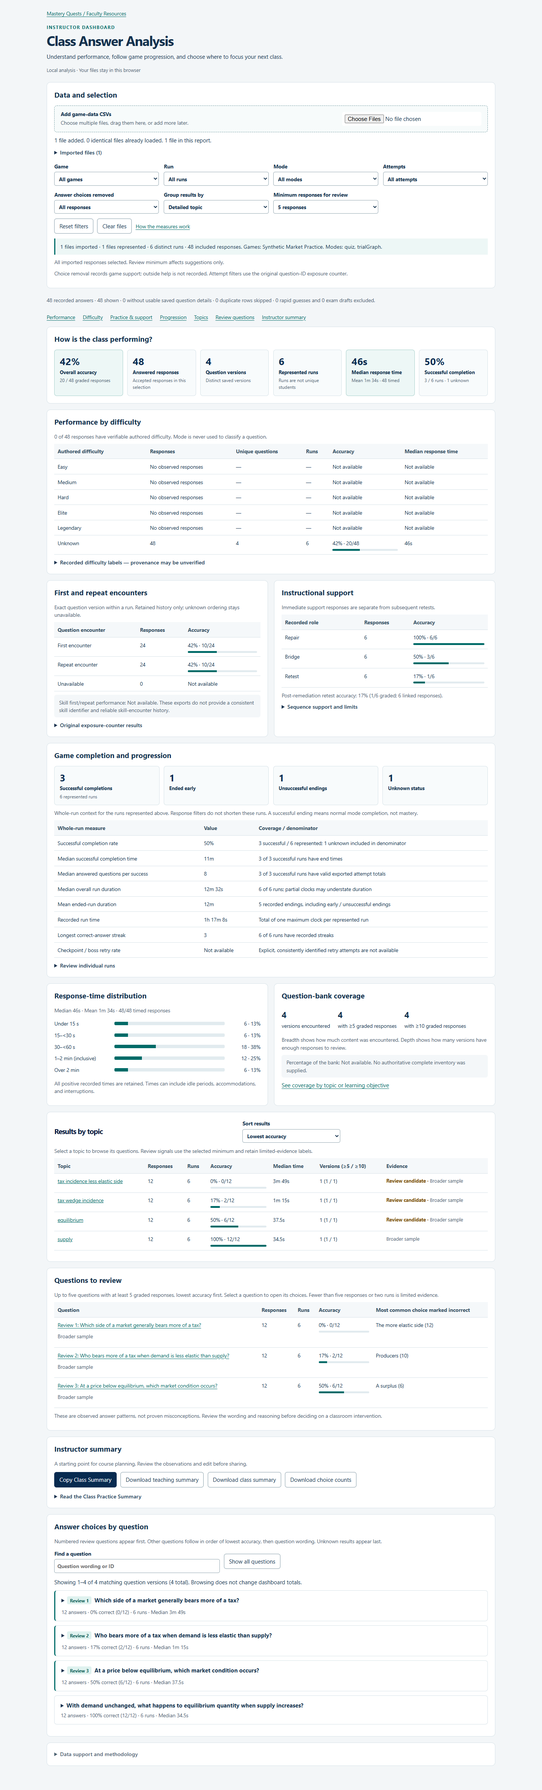
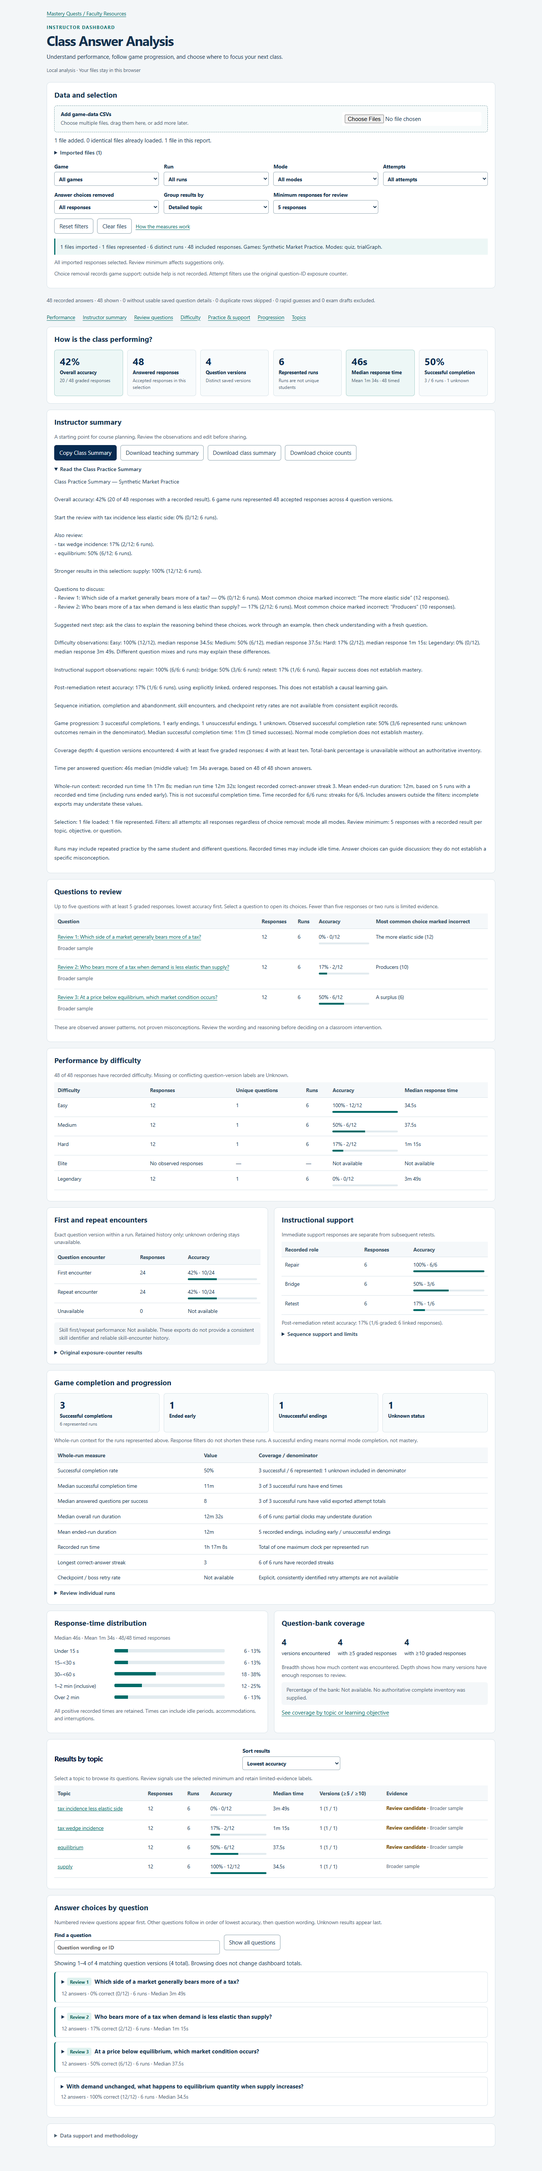
updated answer analysis

diff --git a/tools/answer-analysis/index.html b/tools/answer-analysis/index.html
@@ -20,30 +20,30 @@
 <p id="dataset-context" class="selection-context" role="status" aria-live="polite">Add files to begin. Files, runs, responses, and students are different units.</p><p id="active-filters" class="meta"></p><p id="choice-removal-help" class="meta">Choice removal records game support; outside help is not recorded. Attempt filters use the original question-ID exposure counter.</p>
 </section>
 <p id="status" role="status" aria-live="polite">Add files to see the results.</p><p id="errors" role="alert"></p><p id="integrity" class="integrity-note" role="alert"></p>
-<nav id="dashboard-nav" aria-label="Dashboard sections" hidden><a href="#overview">Performance</a><a href="#difficulty">Difficulty</a><a href="#learning">Practice &amp; support</a><a href="#progression">Progression</a><a href="#topics">Topics</a><a href="#review">Review questions</a><a href="#instructor-summary">Instructor summary</a></nav>
+<nav id="dashboard-nav" aria-label="Dashboard sections" hidden><a href="#overview">Performance</a><a href="#instructor-summary">Instructor summary</a><a href="#review">Review questions</a><a href="#difficulty">Difficulty</a><a href="#learning">Practice &amp; support</a><a href="#progression">Progression</a><a href="#topics">Topics</a></nav>
 <div id="empty-state" class="panel"><h2>A clearer view of your class</h2><p>Import question-response CSVs from Managerial Intelligence Directorate, Macro Command System, Micro Domains, Economic Realm, or Composer games.</p><p class="meta">Simulation trial tables and journey JSON files are not supported. Older exports may lack saved question details.</p></div>
 <div id="dashboard" hidden>
 <section id="overview" class="panel" aria-label="Class overview"></section>
+<section id="instructor-summary" class="panel" aria-labelledby="summary-heading"><h2 id="summary-heading">Instructor summary</h2><p class="meta">A starting point for course planning. Review the observations and edit before sharing.</p><div class="actions"><button id="copy-summary" disabled>Copy Class Summary</button><button id="download-feedback" disabled>Download teaching summary</button><button id="download-summary" disabled>Download class summary</button><button id="download" disabled>Download choice counts</button></div>
+<p id="copy-status" role="status" aria-live="polite"></p><details id="summary-preview" open><summary>Read the Class Practice Summary</summary><p id="feedback-preview"></p></details><div id="summary-editor" hidden><label for="summary-text">Class feedback summary — review and edit before sharing</label><textarea id="summary-text" rows="12"></textarea></div></section>
+<section id="review" class="panel" aria-label="Questions to review"><h2 id="questions-to-review">Questions to review</h2><p id="review-note" class="meta"></p><div id="review-results"></div></section>
 <section id="difficulty" class="panel" aria-label="Performance by difficulty"></section>
 <div id="learning" class="learning-grid"><section id="encounters" class="panel" aria-label="First and repeat encounters"></section><section id="remediation" class="panel" aria-label="Instructional support"></section></div>
 <section id="progression" class="panel" aria-label="Game completion and progression"></section>
 <div class="learning-grid"><section id="timing" class="panel" aria-label="Response-time distribution"></section><section id="coverage" class="panel" aria-label="Question-bank coverage"></section></div>
 <section id="topics" class="panel" aria-label="Results by topic"><div class="section-heading"><h2 id="topics-heading">Results by topic</h2><label>Sort results <select id="topic-sort"><option value="accuracy">Lowest accuracy</option><option value="responses">Most responses</option><option value="runs">Most runs</option><option value="name">Topic name</option><option value="time">Median response time (longest first)</option></select></label></div><div id="topic-results"></div></section>
-<section id="review" class="panel" aria-label="Questions to review"><h2 id="questions-to-review">Questions to review</h2><p id="review-note" class="meta"></p><div id="review-results"></div></section>
-<section id="instructor-summary" class="panel" aria-labelledby="summary-heading"><h2 id="summary-heading">Instructor summary</h2><p class="meta">A starting point for course planning. Review the observations and edit before sharing.</p><div class="actions"><button id="copy-summary" disabled>Copy Class Summary</button><button id="download-feedback" disabled>Download teaching summary</button><button id="download-summary" disabled>Download class summary</button><button id="download" disabled>Download choice counts</button></div>
-<p id="copy-status" role="status" aria-live="polite"></p><details id="summary-preview"><summary>Read the Class Practice Summary</summary><p id="feedback-preview"></p></details><div id="summary-editor" hidden><label for="summary-text">Class feedback summary — review and edit before sharing</label><textarea id="summary-text" rows="12"></textarea></div></section>
 <section class="panel" aria-labelledby="questions-heading"><h2 id="questions-heading">Answer choices by question</h2><p class="meta">Numbered review questions appear first. Other questions follow in order of lowest accuracy, then question wording. Unknown results appear last.</p><div class="actions"><label>Find a question <input id="question-search" type="search" placeholder="Question wording or ID"></label><button id="show-all-questions">Show all questions</button></div><p id="question-context" role="status" aria-live="polite"></p><div id="results"></div></section>
 </div>
 <details id="methodology" class="panel report-notes"><summary>Data support and methodology</summary>
 <h2>What these results mean</h2><p>Accuracy uses accepted, graded responses with usable saved question details. Repeated practice counts as responses, never as separate students. Runs may belong to the same student. Unique students are not available.</p>
 <h3>Imports and filters</h3><p>Matching attempt identifiers count once across overlapping files. Answers without reliable identifiers are retained with a warning. Rapid guesses and unfinished exam selections are excluded from accuracy. Revised questions remain separate. Files without usable snapshots cannot supply question analysis. Reloading clears the report.</p><p>Response filters apply to accuracy, timing, difficulty, coverage, encounters, and remediation responses. Run metrics describe the whole runs represented by those selected answers, including responses outside the filters. Runs containing no selected usable answers are not represented.</p>
 <h3>Timing and endings</h3><p>Median response time is the primary timing measure. The mean retains all positive recorded times, including long pauses. Missing, invalid, negative, or zero response times are excluded because older exporters use zero as an unmeasured default. Short and long times do not establish guessing, confusion, or attention.</p><p>Successful completion means an explicit normal mode-completion event, not mastery or a passing score. Early endings, recorded busts, conflicting outcomes, and unknown endings are separate. Successful completion rate is observed successful runs divided by all represented runs; unknown runs remain in the denominator. If no outcome can be identified, the rate is unavailable.</p><p>Successful completion time uses successful ending clocks only. Answer counts per success require an exported end-of-run attempt count. Median overall run duration uses each run’s highest recorded clock and may understate incomplete exports. Mean ended-run duration includes early and unsuccessful endings; it is not successful completion time.</p>
-<h3>Difficulty, encounters, and support</h3><p>Local exports may substitute mode for difficulty, so those values are shown separately as unverified recorded labels. Authored difficulty is used only where an inspected export adapter supplies question difficulty without a mode fallback. Missing or conflicting authored difficulty is Unknown. Current banks are never downloaded to reconstruct historical content.</p><p>The original exposure filter counts earlier stored answers and rapid guesses for a question ID within a run. Exact-version encounters additionally use saved revisions and reliable sequence numbers. A prior count of zero identifies a first retained encounter; a repeat requires an earlier matching revision. Incomplete retained history and ambiguous ordering may leave encounters unavailable. Skill encounters are unavailable because the inspected exports lack a consistent skill identifier and encounter history.</p><p>Repair, bridge, and retest roles use explicit stage metadata. Linked post-remediation retests additionally require the same run, origin attempt, an observed incorrect origin, and a reliably ordered repair or bridge before the retest. This does not demonstrate a causal learning gain. Linked groups do not establish sequence initiation, completion, or abandonment. Checkpoint retry rates remain unavailable without explicit retry semantics.</p>
+<h3>Difficulty, encounters, and support</h3><p>Difficulty uses the recorded difficulty field in both local and private CSV exports. Missing labels and conflicting labels for the same saved question version are Unknown. The analysis does not fill missing difficulty from the mode field. Current banks are never downloaded to reconstruct historical content.</p><p>The original exposure filter counts earlier stored answers and rapid guesses for a question ID within a run. Exact-version encounters additionally use saved revisions and reliable sequence numbers. A prior count of zero identifies a first retained encounter; a repeat requires an earlier matching revision. Incomplete retained history and ambiguous ordering may leave encounters unavailable. Skill encounters are unavailable because the inspected exports lack a consistent skill identifier and encounter history.</p><p>Repair, bridge, and retest roles use explicit stage metadata. Linked post-remediation retests additionally require the same run, origin attempt, an observed incorrect origin, and a reliably ordered repair or bridge before the retest. This does not demonstrate a causal learning gain. Linked groups do not establish sequence initiation, completion, or abandonment. Checkpoint retry rates remain unavailable without explicit retry semantics.</p>
 <h3>Coverage and review</h3><p>Coverage counts exact saved question versions and the number reaching five or ten graded responses. Bank percentage is unavailable without an authoritative inventory. Topic and objective tables show coverage depth for their own responses. The review minimum determines suggestions, not which responses enter totals. Fewer than five graded responses or two runs is limited evidence. A common incorrect choice is an observed answer pattern, not a proven misconception or a confirmed question-design problem.</p>
-<h3>Export support</h3><div class="table-wrap" tabindex="0" role="region" aria-label="Export support matrix"><table><caption>Support depends on the fields present, not just the game name</caption><thead><tr><th scope="col">Export</th><th scope="col">Responses, timing, coverage</th><th scope="col">Authored difficulty</th><th scope="col">Encounters and support</th><th scope="col">Run outcomes</th></tr></thead><tbody>
-<tr><th scope="row">Current Managerial / Composer local CSV</th><td>With valid answer snapshots</td><td>Unknown; recorded labels may reflect mode</td><td>Question versions where counters and order support them; explicit stage roles and linked retests</td><td>Named completion, early-ending and bust events</td></tr>
-<tr><th scope="row">Current Macro / Micro / Economic Realm local CSV</th><td>With valid answer snapshots</td><td>Unknown; recorded labels may reflect mode</td><td>Same field-based rules; missing fields stay unavailable</td><td>Recognized named endings only</td></tr>
-<tr><th scope="row">Contract-1 private CSV</th><td>With snapshots in extras_json</td><td>Question metadata on verified source answer events</td><td>Stage columns, originAttemptID, and local sequence when present</td><td>completion_status / sourceEvent; generic run_completed alone is unknown</td></tr>
+<h3>Export support</h3><div class="table-wrap" tabindex="0" role="region" aria-label="Export support matrix"><table><caption>Support depends on the fields present, not just the game name</caption><thead><tr><th scope="col">Export</th><th scope="col">Responses, timing, coverage</th><th scope="col">Difficulty</th><th scope="col">Encounters and support</th><th scope="col">Run outcomes</th></tr></thead><tbody>
+<tr><th scope="row">Current Managerial / Composer local CSV</th><td>With valid answer snapshots</td><td>Supported from the recorded difficulty field</td><td>Question versions where counters and order support them; explicit stage roles and linked retests</td><td>Named completion, early-ending and bust events</td></tr>
+<tr><th scope="row">Current Macro / Micro / Economic Realm local CSV</th><td>With valid answer snapshots</td><td>Supported from the recorded difficulty field</td><td>Same field-based rules; missing fields stay unavailable</td><td>Recognized named endings only</td></tr>
+<tr><th scope="row">Contract-1 private CSV</th><td>With snapshots in extras_json</td><td>Supported from the recorded difficulty field</td><td>Stage columns, originAttemptID, and local sequence when present</td><td>completion_status / sourceEvent; generic run_completed alone is unknown</td></tr>
 <tr><th scope="row">Older CSV without snapshots</th><td>Counted as unavailable for this analysis</td><td>Unavailable</td><td>Unavailable</td><td>Not inferred for unrepresented runs</td></tr>
 </tbody></table></div><p>All current formats: skill encounters, full remediation lifecycle, checkpoint retry rate, unique students, and bank percentage may be unavailable. No new telemetry or student-data transmission is added.</p><p><a href="/how-to/telemetry-data-dictionary/">Understanding Game Data</a> · <a href="/how-to/responsible-telemetry-use/">Responsible Telemetry Use</a></p>
 </details></main></body></html>

diff --git a/tools/answer-analysis/report.js b/tools/answer-analysis/report.js
@@ -34,7 +34,7 @@ function refresh(){
   if(s.objectiveConflicts)warnings.push(`${s.objectiveConflicts} question versions have conflicting objective assignments.`);
   if(s.unverifiableIDs)warnings.push(`${s.unverifiableIDs} responses have no reliable identifier; overlapping exports cannot be fully deduplicated.`);
   if(o.unknownRunAnswers)warnings.push(`${o.unknownRunAnswers} shown responses have no run ID; run-level and within-run encounter measures exclude them.`);
-  if(q.difficultyConflicts)warnings.push(`${q.difficultyConflicts} question versions have conflicting authored difficulty; classified as Unknown.`);
+  if(q.difficultyConflicts)warnings.push(`${q.difficultyConflicts} question versions have conflicting recorded difficulty; classified as Unknown.`);
   if(q.roleConflicts)warnings.push(`${q.roleConflicts} question versions have conflicting role metadata.`);
   if(q.outcomeConflicts)warnings.push(`${q.outcomeConflicts} runs have conflicting endings; classified as Unknown.`);
   byId('integrity').textContent=warnings.join('\n');
@@ -124,7 +124,7 @@ byId('download').addEventListener('click',()=>{
   downloadCSV(rows,'mastery-quests-answer-analysis.csv');
 });
 byId('download-summary').addEventListener('click',()=>{
-  const headers=['section','game','topicOrQuestion','questionID','questionRevision','answers','correct','knownCorrectness','accuracy','gameRuns','files','exposureFilter','assistanceFilter','modeFilter','objectiveID','keyStatus','recordedRunTimeMs','medianRunTimeMs','runsWithRecordedTime','longestRecordedStreak','runsWithRecordedStreak','reviewMinimumResponses','averageResponseTimeMs','medianResponseTimeMs','responsesWithRecordedTime','averageCompletionTimeMs','runsWithCompletionTime','gameFilter','runFilter','uniqueQuestionVersions','questionVersionsWithFiveResponses','questionVersionsWithTenResponses','authoredDifficulty','reportedDifficulty','questionType','gameplayRole','successfulRuns','earlyEndedRuns','unsuccessfulRuns','unknownOutcomeRuns','successfulCompletionRate','medianSuccessfulCompletionTimeMs','medianAnswersPerSuccessfulRun','runsWithSuccessfulTime','runsWithSuccessfulAnswerCount','meanEndedRunDurationMs','metric','value'];
+  const headers=['section','game','topicOrQuestion','questionID','questionRevision','answers','correct','knownCorrectness','accuracy','gameRuns','files','exposureFilter','assistanceFilter','modeFilter','objectiveID','keyStatus','recordedRunTimeMs','medianRunTimeMs','runsWithRecordedTime','longestRecordedStreak','runsWithRecordedStreak','reviewMinimumResponses','averageResponseTimeMs','medianResponseTimeMs','responsesWithRecordedTime','averageCompletionTimeMs','runsWithCompletionTime','gameFilter','runFilter','uniqueQuestionVersions','questionVersionsWithFiveResponses','questionVersionsWithTenResponses','difficulty','reportedDifficulty','questionType','gameplayRole','successfulRuns','earlyEndedRuns','unsuccessfulRuns','unknownOutcomeRuns','successfulCompletionRate','medianSuccessfulCompletionTimeMs','medianAnswersPerSuccessfulRun','runsWithSuccessfulTime','runsWithSuccessfulAnswerCount','meanEndedRunDurationMs','metric','value'];
   const selection={exposureFilter:byId('exposure').value,assistanceFilter:byId('assistance').value,modeFilter:byId('mode').value,gameFilter:byId('game').value,runFilter:byId('run').value};
   const rows=[headers];
   const append=record=>rows.push(headers.map(h=>({...selection,...record})[h]??''));
@@ -133,9 +133,9 @@ byId('download-summary').addEventListener('click',()=>{
   append({section:'class',...stats({...o,count:summary.stats.included,runCount:o.runs,questionCount:o.questions}),files:o.files,recordedRunTimeMs:o.recordedTimeMs,medianRunTimeMs:o.medianRunTimeMs,runsWithRecordedTime:o.timedRuns,longestRecordedStreak:o.bestStreak,runsWithRecordedStreak:o.streakRuns,reviewMinimumResponses:byId('minimum').value,averageCompletionTimeMs:o.averageCompletionTimeMs,meanEndedRunDurationMs:o.averageCompletionTimeMs,runsWithCompletionTime:o.completionRuns,questionVersionsWithFiveResponses:summary.coverage.atLeastFive,questionVersionsWithTenResponses:summary.coverage.atLeastTen,successfulRuns:p.successful,earlyEndedRuns:p.early,unsuccessfulRuns:p.unsuccessful,unknownOutcomeRuns:p.unknown,successfulCompletionRate:p.successfulRate,medianSuccessfulCompletionTimeMs:p.medianSuccessfulTimeMs,medianAnswersPerSuccessfulRun:p.medianAnswersPerSuccess,runsWithSuccessfulTime:p.successfulTimedRuns,runsWithSuccessfulAnswerCount:p.successfulCountedRuns});
   for(const t of summary.topics)append({section:'topic',game:t.game,topicOrQuestion:t.topic,...stats(t),questionVersionsWithFiveResponses:t.atLeastFive,questionVersionsWithTenResponses:t.atLeastTen});
   for(const t of summary.objectives)append({section:'objective',game:t.game,topicOrQuestion:MQAnswerAnalysis.objectiveLabel(t),objectiveID:t.objective,...stats(t),questionVersionsWithFiveResponses:t.atLeastFive,questionVersionsWithTenResponses:t.atLeastTen});
-  for(const g of summary.groups)append({section:'question',game:g.games.join(', '),topicOrQuestion:g.prompt,questionID:g.questionID,questionRevision:g.revision,keyStatus:g.keyStatus,...stats(g),authoredDifficulty:g.difficulty,reportedDifficulty:g.reportedDifficulties.join(' / '),questionType:g.types.join(' / '),gameplayRole:[...g.roles,...g.bossStages].join(' / ')});
-  for(const g of summary.difficulties)append({section:'authored_difficulty',topicOrQuestion:g.label,...stats(g)});
-  for(const g of summary.reportedDifficulties)append({section:'unverified_recorded_difficulty',topicOrQuestion:g.label,...stats(g)});
+  for(const g of summary.groups)append({section:'question',game:g.games.join(', '),topicOrQuestion:g.prompt,questionID:g.questionID,questionRevision:g.revision,keyStatus:g.keyStatus,...stats(g),difficulty:g.difficulty,reportedDifficulty:g.reportedDifficulties.join(' / '),questionType:g.types.join(' / '),gameplayRole:[...g.roles,...g.bossStages].join(' / ')});
+  for(const g of summary.difficulties)append({section:'difficulty',topicOrQuestion:g.label,...stats(g)});
+  for(const g of summary.reportedDifficulties)append({section:'recorded_difficulty',topicOrQuestion:g.label,...stats(g)});
   for(const g of summary.encounters.question)append({section:'question_encounter',topicOrQuestion:g.label,...stats(g)});
   for(const g of summary.remediation.roles)append({section:'remediation_role',topicOrQuestion:g.label,...stats(g)});
   append({section:'post_remediation_retest',topicOrQuestion:'Explicitly linked ordered retests',...stats(summary.remediation.linkedRetests)});

diff --git a/tools/answer-analysis/dashboard-view.js b/tools/answer-analysis/dashboard-view.js
@@ -23,9 +23,9 @@ function renderDashboard(){
   if(!summary.stats.included)node.append(unavailable('No usable responses match this selection. Reset filters or add exports with saved question details.'));
   const difficulty=panel('difficulty','Performance by difficulty');
   const reliable=summary.difficulties.filter(g=>g.label!=='Unknown').reduce((n,g)=>n+g.count,0);
-  difficulty.append(note(`${reliable} of ${summary.stats.included} responses have verifiable authored difficulty. Mode is never used to classify a question.`),
-    table(['Authored difficulty','Responses','Unique questions','Runs','Accuracy','Median response time'],summary.difficulties.map(g=>[g.label,g.count||'No observed responses',g.count?g.questionCount:'—',g.count?g.runCount:'—',accuracyCell(g),displayTime(g.medianResponseTimeMs)])));
-  if(summary.reportedDifficulties.some(g=>g.label!=='Unknown'))difficulty.append(fold('Recorded difficulty labels — provenance may be unverified',note('These exported labels may reflect game mode. They are context only and are not evidence of authored question difficulty.'),table(['Recorded label','Responses','Accuracy','Median time'],summary.reportedDifficulties.map(g=>[g.label,g.count,accuracyCell(g),displayTime(g.medianResponseTimeMs)]))));
+  difficulty.append(note(`${reliable} of ${summary.stats.included} responses have recorded difficulty. Missing or conflicting question-version labels are Unknown.`),
+    table(['Difficulty','Responses','Unique questions','Runs','Accuracy','Median response time'],summary.difficulties.map(g=>[g.label,g.count||'No observed responses',g.count?g.questionCount:'—',g.count?g.runCount:'—',accuracyCell(g),displayTime(g.medianResponseTimeMs)])));
+  if(summary.quality.difficultyConflicts)difficulty.append(fold('Conflicting difficulty labels',note('Some saved question versions have different difficulty labels across imported responses. Those versions are classified as Unknown above. The exported labels are shown below.'),table(['Recorded label','Responses','Accuracy','Median time'],summary.reportedDifficulties.map(g=>[g.label,g.count,accuracyCell(g),displayTime(g.medianResponseTimeMs)]))));
   const encounter=panel('encounters','First and repeat encounters');
   encounter.append(note('Exact question version within a run. Retained history only; unknown ordering stays unavailable.'),smallTable(['Question encounter','Responses','Accuracy'],summary.encounters.question.map(g=>[g.label,g.count,accuracyCell(g)])),
     unavailable('Skill first/repeat performance: Not available. These exports do not provide a consistent skill identifier and reliable skill-encounter history.'),
@@ -112,9 +112,9 @@ function renderQuestions(){
     heading.append(el('h3',g.prompt),note(`${plural(g.count,'answer')} · ${percent(g.correct,g.knownCorrectness)} correct (${g.correct}/${g.knownCorrectness}) · ${plural(g.runCount,'run')} · Median ${displayTime(g.medianResponseTimeMs)}`));card.append(heading);
     const legacy=el('span','');legacy.id='question-'+summary.groups.indexOf(g);card.append(legacy);
     const metadata=el('dl','','question-meta');
-    for(const [label,value] of [['Question ID',g.questionID],['Game',g.games.join(', ')],['Topic',g.topics.join(' / ')||'Not supplied'],['Learning objective',g.objectives.join(' / ')||'Not supplied'],['Authored difficulty',g.difficulty],['Question type',g.types.join(' / ')||'Not supplied'],['Gameplay role',[...g.roles,...g.bossStages].join(' / ')||'Not supplied'],['Saved version',g.revision]]){const pair=el('div','');pair.append(el('dt',label),el('dd',String(value)));metadata.append(pair);}card.append(metadata);
+    for(const [label,value] of [['Question ID',g.questionID],['Game',g.games.join(', ')],['Topic',g.topics.join(' / ')||'Not supplied'],['Learning objective',g.objectives.join(' / ')||'Not supplied'],['Difficulty',g.difficulty],['Question type',g.types.join(' / ')||'Not supplied'],['Gameplay role',[...g.roles,...g.bossStages].join(' / ')||'Not supplied'],['Saved version',g.revision]]){const pair=el('div','');pair.append(el('dt',label),el('dd',String(value)));metadata.append(pair);}card.append(metadata);
     card.append(note(`Exact-version encounters: ${g.encounters.map(e=>`${e.count} ${e.label.toLowerCase()}`).join(' · ')}. ${g.assisted} responses with choices removed.`),note(`Time per answer: median ${displayTime(g.medianResponseTimeMs)} · mean ${displayTime(g.averageResponseTimeMs)} · ${g.timedResponses}/${g.count} timed.`));
-    if(g.reportedDifficulties.length&&g.difficulty==='Unknown')card.append(note('Recorded difficulty label (unverified): '+g.reportedDifficulties.join(' / ')));
+    if(g.reportedDifficulties.length&&g.difficulty==='Unknown')card.append(note('Conflicting recorded difficulty labels: '+g.reportedDifficulties.join(' / ')));
     if(g.optionOrder==='displayed')card.append(note('Original answer order was unavailable. Choices are grouped by the order shown.'));
     if(g.keyStatus!=='known')card.append(el('p',g.keyStatus==='conflict'?'Conflicting answer-key or grading information; correct answers are withheld.':'Correct answer unavailable',g.keyStatus==='conflict'?'integrity-note':'meta'));
     card.append(table(['Answer choice','Selected','Share','Correct answer','Selections marked correct'],g.options.map(o=>{

diff --git a/tools/answer-analysis/dashboard-analysis.js b/tools/answer-analysis/dashboard-analysis.js
@@ -14,11 +14,9 @@
     return new Set(roles).size>1?'Conflicting roles':roles[0]||'Not supplied';
   }
   const difficultyName=value=>{const v=text(value);if(!v||/^(unknown|none|null|undefined|n\/a|not supplied|not available|\d+)$/i.test(v))return 'Unknown';const common=['Easy','Medium','Hard','Elite','Legendary'].find(label=>label.toLowerCase()===v.toLowerCase());return common||v[0].toUpperCase()+v.slice(1);};
-  // The inspected local exporters fall back to game mode. Only the contract-1
-  // private answer adapter reads question.difficulty without that fallback.
-  function authoredDifficulty(r){
-    return event(r)==='answer_evaluated'&&r.contractID==='mq-measurement/1'&&r.sourceEvent==='question'?difficultyName(r.difficulty):'Unknown';
-  }
+  // Accepted answers in both local and private exports carry difficulty.
+  // Read that field directly; do not infer a missing value from mode.
+  function recordedDifficulty(r){return difficultyName(r.difficulty);}
   function stats(items){
     const times=items.map(a=>responseTime(a.row)).filter(v=>v>0),graded=items.filter(a=>known(a.row.correct));
     return {count:items.length,correct:graded.filter(a=>correct(a.row.correct)).length,knownCorrectness:graded.length,
@@ -73,7 +71,7 @@
     let difficultyConflicts=0,roleConflicts=0;
     const metadata=new Map();
     for(const [k,items] of grouped){
-      const levels=[...new Set(items.map(a=>authoredDifficulty(a.row)).filter(v=>v!=='Unknown'))];
+      const levels=[...new Set(items.map(a=>recordedDifficulty(a.row)).filter(v=>v!=='Unknown'))];
       const roles=[...new Set(items.map(a=>role(a.row)).filter(v=>v!=='Not supplied'))];
       const conflict=levels.length>1;if(conflict)difficultyConflicts++;
       if(roles.includes('Conflicting roles'))roleConflicts++;
@@ -154,6 +152,6 @@
       runs:[...new Map(allAnswers.filter(a=>a.runKey).map(a=>[a.runKey,{id:a.runKey,label:(a.row.game||a.row.game_id||JSON.parse(a.key)[0])+' · '+(a.row.runID||a.row.run_id)}])).values()]};
     return result;
   }
-  const api={enrich,median,stats,authoredDifficulty,endStatus};
+  const api={enrich,median,stats,recordedDifficulty,endStatus};
   if(typeof module==='object'&&module.exports)module.exports=api;else root.MQDashboardAnalysis=api;
 })(globalThis);

diff --git a/tools/answer-analysis/analysis.js b/tools/answer-analysis/analysis.js
@@ -188,8 +188,8 @@
     }
     const supportedDifficulty=result.difficulties.filter(g=>g.label!=='Unknown'&&sufficient(g,Math.max(5,min)));
     if(!s.keyConflicts&&!result.quality.difficultyConflicts&&supportedDifficulty.length>1){
-      lines.push('Authored difficulty observations: '+supportedDifficulty.map(g=>`${g.label}: ${accuracy(g)} (${g.correct}/${g.knownCorrectness}), median response ${responseDuration(g.medianResponseTimeMs)}`).join('; ')+'. Different question mixes and runs may explain these differences.');
-    }else lines.push('Difficulty comparison: insufficient verified authored difficulty or response coverage for a comparison. Unverified recorded labels are kept separate.');
+      lines.push('Difficulty observations: '+supportedDifficulty.map(g=>`${g.label}: ${accuracy(g)} (${g.correct}/${g.knownCorrectness}), median response ${responseDuration(g.medianResponseTimeMs)}`).join('; ')+'. Different question mixes and runs may explain these differences.');
+    }else lines.push('Difficulty comparison: insufficient consistent difficulty data or response coverage for a comparison.');
     const support=result.remediation.roles.filter(g=>g.count);
     if(support.length){
       lines.push('Instructional support observations: '+support.map(g=>`${g.label}: ${accuracy(g)} (${g.correct}/${g.knownCorrectness}; ${plural(g.runCount,'run')}${sufficient(g)?'':'; limited evidence'})`).join('; ')+'. Repair success does not establish mastery.');

diff --git a/ANSWER_ANALYSIS_DASHBOARD_ENHANCEMENT_REPORT.md b/ANSWER_ANALYSIS_DASHBOARD_ENHANCEMENT_REPORT.md
@@ -32,8 +32,8 @@ The new `dashboard-analysis.js` enriches the existing analysis result with deter
 | Accuracy | Correct / graded accepted responses with usable snapshots; numerator and denominator remain visible. |
 | Timing | Median is primary; mean and timed-response coverage remain visible. Positive finite times are retained without trimming. |
 | Response distribution | `(0,15s)`, `[15s,30s)`, `[30s,60s)`, `[60s,120s]`, and `(120s,infinity)`. Fractional milliseconds are covered without overlap. |
-| Authored difficulty | Trusted question difficulty from the inspected contract-1 private answer adapter, requiring `answer_evaluated`, `contractID=mq-measurement/1`, and `sourceEvent=question`. Missing or conflicting provenance is Unknown. Standard and game-specific labels are preserved. |
-| Recorded difficulty context | Separate expandable breakdown of exported labels. Explicitly unverified where a local exporter may substitute mode. Never used as authored difficulty or in authored-difficulty feedback comparisons. |
+| Difficulty | Recorded `difficulty` from accepted answers in local and private CSVs. Missing or conflicting labels for an exact question version are Unknown. Mode is not used to fill missing labels. Standard and game-specific labels are preserved. |
+| Conflicting difficulty labels | An expandable raw-label breakdown appears when question versions have conflicting difficulty labels. |
 | Exact-version encounters | Within-run saved question ID + revision, positive integer sequence ordering, and recorded prior exposure. A prior count of zero identifies the first retained encounter. Repeats require an earlier matching revision. A changed version can be first when the earlier ID history is fully accounted for. Otherwise unavailable. |
 | Original exposure counts | Retained separately for compatibility with the existing Attempts filter; includes earlier retained answers and rapid guesses for the question ID. |
 | Repair / bridge / retest accuracy | Response counts and graded accuracy using explicit stage fields, including private snake-case aliases. Conflicting simultaneous roles are not assigned to a normal role. |
@@ -49,12 +49,12 @@ Response filters apply to accuracy, response timing, difficulty, encounter perfo
 
 ## Field-support matrix and deferrals
 
-| Format / family | Responses and timing | Authored difficulty | Exact question encounters | Remediation | Outcomes |
+| Format / family | Responses and timing | Difficulty | Exact question encounters | Remediation | Outcomes |
 |---|---|---|---|---|---|
-| Current Managerial local | Snapshot-based | Unknown unless corroborated by trusted imported metadata for that exact version; raw labels shown separately | Conditional on retained counters, revisions, and ordering | Explicit stage roles; linked retests when origin/order exists | Recognized named endings |
-| Current Composer local | Same | Same local fallback limitation | Same | Same field-based rules | Recognized named endings |
-| Current Macro / Micro / Economic Realm local | Same shared response contract where supplied | Same local fallback limitation | Same field-based rules | Same field-based rules; no inferred missing roles | Recognized named endings |
-| Contract-1 private CSV | Flattened fields or `extras_json` with snapshots | Supported on the verified adapter source-answer path | Conditional on snapshots and ordering | Separate stage columns + origin linkage | Explicit completion status or source ending; generic end event is insufficient |
+| Current Managerial local | Snapshot-based | Supported from the recorded difficulty field | Conditional on retained counters, revisions, and ordering | Explicit stage roles; linked retests when origin/order exists | Recognized named endings |
+| Current Composer local | Same | Supported from the recorded difficulty field | Same | Same field-based rules | Recognized named endings |
+| Current Macro / Micro / Economic Realm local | Same shared response contract where supplied | Supported from the recorded difficulty field | Same field-based rules | Same field-based rules; no inferred missing roles | Recognized named endings |
+| Contract-1 private CSV | Flattened fields or `extras_json` with snapshots | Supported from the recorded difficulty field | Conditional on snapshots and ordering | Separate stage columns + origin linkage | Explicit completion status or source ending; generic end event is insufficient |
 | Historical layouts without snapshots | Accepted records reported as unavailable; no reconstructed answer analysis | Unavailable | Unavailable | Unavailable in question analysis | Not inferred for unrepresented runs |
 
 The matrix is also available in the dashboard's expandable methodology section.
@@ -65,7 +65,6 @@ Deferred measurements are displayed as **Not available**, not manufactured zeroe
 - **Sequences initiated, completed, or abandoned:** stage roles and origin links do not define those lifecycle states. The tool reports observed linked groups without calling them completed sequences. A missing follow-up is not an abandonment event.
 - **Checkpoint/boss retry rate:** checkpoint starts and repeated stage labels do not consistently identify distinct retry attempts. Question IDs, room numbers, or temporal proximity are not used to invent a retry denominator.
 - **Bank percentage:** no authoritative complete, version-matched bank inventory was supplied. No private keys or current banks are downloaded to reconstruct historical content.
-- **Authored difficulty for unverified local records:** the same CSV field can originate from authored question metadata or the mode fallback. The snapshot does not preserve that provenance. A future versioned metadata inventory or explicit provenance field could resolve this; this implementation does not alter telemetry or games.
 - **Unique students and cross-run learning trajectories:** no appropriate identity assumptions are introduced.
 
 ## Layout and workflow changes
@@ -76,10 +75,10 @@ After:
 
 - Compact import area, collapsible file list, explicit imported-file versus represented-run counts, game/run filters, active-selection description, and reset controls.
 - Six compact headline cards, with median response time and accuracy numerator/denominator emphasized.
-- Difficulty immediately after performance; practice and instructional support paired; outcomes separated from response timing.
+- Instructor summary immediately after performance, with its preview open by default; Questions to review comes next, before topic results. Difficulty follows the review section; practice and instructional support are paired; outcomes are separated from response timing.
 - Coverage depth, timing distribution, sortable topics/objectives, and direct topic-to-question browsing.
 - Numbered review links, stable game/question/revision anchors, compatibility with the old `question-N` anchors, and keyboard-operable “Review next.”
-- Question IDs, full stems, topic/objective, difficulty provenance, type/role, runs, timing, saved version, and choice-count bars. Cards remain collapsible.
+- Question IDs, full stems, topic/objective, recorded difficulty, type/role, runs, timing, saved version, and choice-count bars. Cards remain collapsible.
 - Search and 25-card pagination for large banks. Browsing/pagination never changes dashboard totals or exports.
 - Instructor feedback preview, editable copy workflow, plain-text teaching-summary download, and expanded CSV outputs.
 - Persistent data-quality warnings; secondary definitions and support limitations in expandable sections.
@@ -91,7 +90,7 @@ No external charting library is used. Decorative bars are hidden from assistive 
 Passed:
 
 1. `node build/faculty-build-composer/tests/run_answer_analysis_validation.mjs` — existing parser, snapshot, deduplication, filters, timing, feedback, and 17-engine integration regressions.
-2. `node audit_tools/answer_analysis/dashboard-check.mjs` — outcomes/denominators, early and unsuccessful endings, duplicate/conflicting endings, authored-difficulty provenance, aliases and unknown labels, question revisions, sequence ordering, explicit remediation links, filtered linkage, timing boundaries, missing data, and all 11 registered CSV layouts.
+2. `node audit_tools/answer_analysis/dashboard-check.mjs` — outcomes/denominators, early and unsuccessful endings, duplicate/conflicting endings, recorded difficulty across local/private exports, aliases and unknown labels, question revisions, sequence ordering, explicit remediation links, filtered linkage, timing boundaries, missing data, and all 11 registered CSV layouts.
 3. `node audit_tools/answer_analysis/class-browser.mjs` — cumulative imports, duplicate imports, removal, malformed files, 30-file batches, filters, clear during pending reads, rapid sequential imports, drag/drop, and responsive layout.
 4. `node audit_tools/answer_analysis/review-browser.mjs` — five review links, duplicate stems across revisions, keyboard focus, summary numbering, filtered links, exports, unknown outcomes, and mobile layout.
 5. `node audit_tools/answer_analysis/release-browser.mjs` — native clipboard and denied-clipboard fallback, exported totals, authoritative zero-selected correct answers, table keyboard scrolling, long strings, labels/headings, malformed import alerts, and existing resource links.
@@ -172,3 +171,11 @@ node audit_tools/public_site_publication/build-dist.mjs
 ```
 
 This regenerates the repository's `dist/` output; it does not deploy. Keep fixtures and student files outside public source trees. The unchanged builder explicitly excludes audit tooling, temporary data, private-course sources, faculty exports, and test directories.
+
+## Difficulty and instructor workflow correction
+
+Local CSV difficulty is now included in the main breakdown, question cards, teaching summary, and CSV download. The previous blanket private-contract requirement incorrectly hid populated local difficulty fields. Empty labels and contradictory labels for one saved question version remain Unknown. CSV output uses `difficulty` / `recorded_difficulty` sections and a `difficulty` column in place of the misleading authored/unverified names. No gameplay or telemetry changes were needed.
+
+The instructor summary now follows the overview with its preview expanded. Questions to review follows the summary, ahead of Results by topic. Navigation follows the same reading order. The live Cost Directive screenshot documents the reported issue; exact live totals still require the source CSVs, which are not attached.
+
+Correction validation passed: the existing answer-analysis validation suite, dashboard calculation checks across all 11 registered CSV schemas, browser checks for difficulty totals/cards/feedback/CSV exports and the new section order, desktop/tablet/mobile accessibility scans, and the local publication build (2,411 files; no forbidden files). Refreshed dashboard screenshots and browser evidence are saved alongside the existing evidence.
